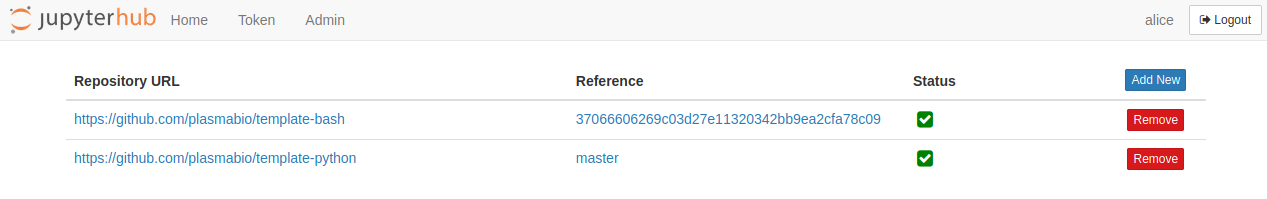
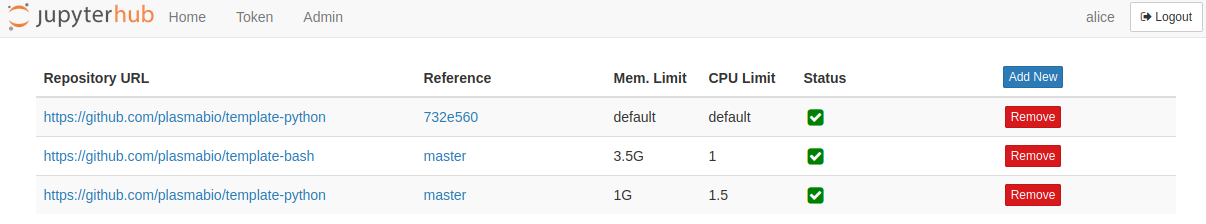
Update docs to show the limits

diff --git a/docs/environments/add.rst b/docs/environments/add.rst
@@ -9,6 +9,10 @@ To add the new user environment, click on the ``Add New`` button and provide the
 
 - ``Repository URL``: the URL to the repository to build the environment from
 - ``Reference (git commit)``: the git commit hash to use
+- ``Memory Limit (GB)``: the memory limit to apply to the user server.
+  Float values are allowed (for example a value of ``3.5`` corresponds to a limit of 3.5GB)
+- ``CPU Limit``: the number of cpus the user server is allowed to used.
+  See the `JupyterHub documentation <https://jupyterhub.readthedocs.io/en/stable/api/spawner.html#jupyterhub.spawner.Spawner.cpu_limit>`_ for more info.
 
 
 As an example:

diff --git a/docs/configuration/resources.rst b/docs/configuration/resources.rst
@@ -37,8 +37,8 @@ Users can monitor their CPU usage using the indicator in the top bar area if the
 
 .. _resources/display:
 
-Display the indicators
-----------------------
+Displaying the indicators
+-------------------------
 
 To enable the Memory and CPU indicators as shown above, the following dependencies must be added to the user environment:
 
